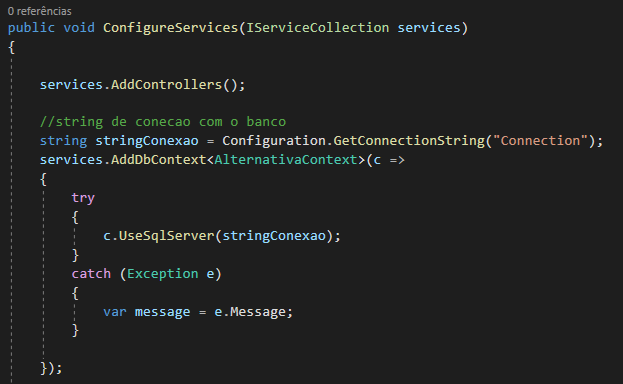
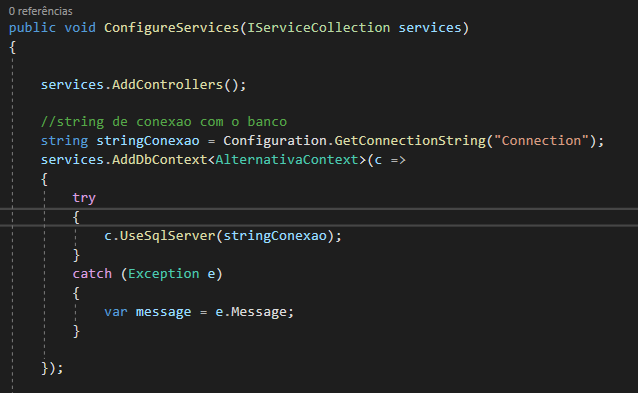
Outros - corrigindo erros escritos

diff --git a/WebApiAlternativa/WebApiAlternativa/Startup.cs b/WebApiAlternativa/WebApiAlternativa/Startup.cs
@@ -29,7 +29,7 @@ namespace WebApiAlternativa
 
             services.AddControllers();
 
-            //string de conecao com o banco
+            //string de conexao com o banco
             string stringConexao = Configuration.GetConnectionString("Connection");
             services.AddDbContext<AlternativaContext>(c =>
             {
